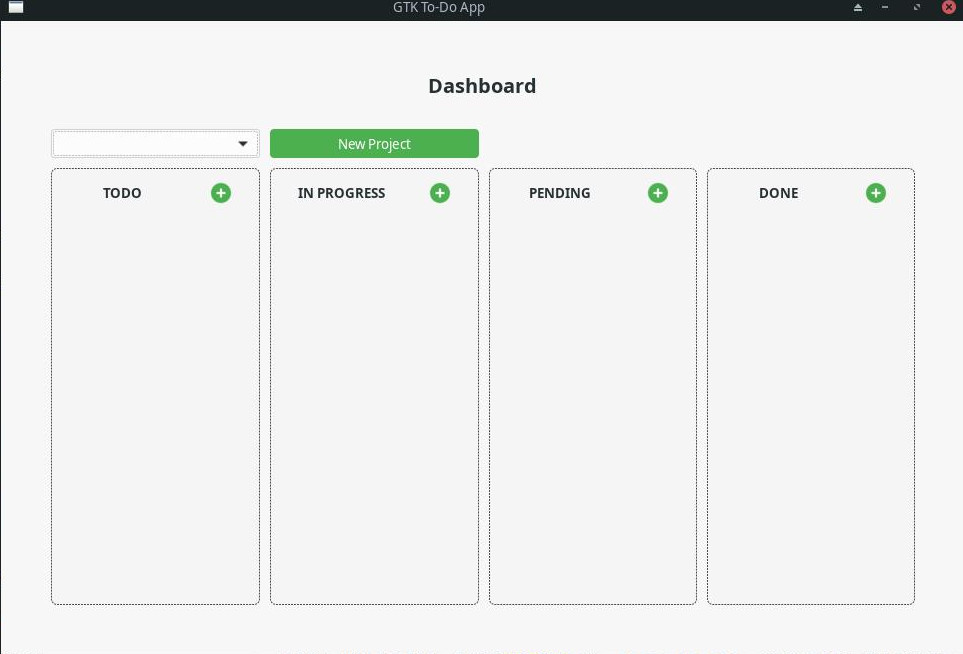
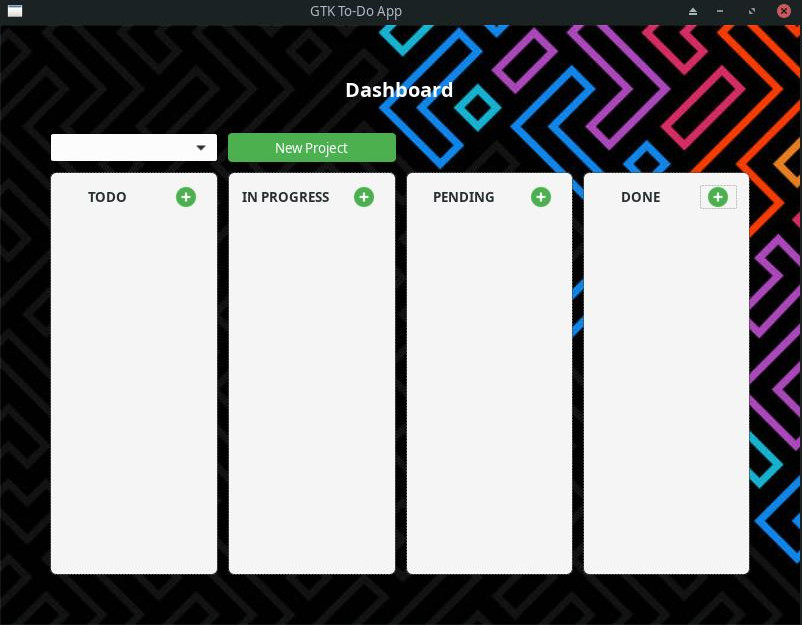
add screenshot

diff --git a/style.css b/style.css
@@ -1,8 +1,8 @@
 /* styles.css */
 #login-grid {
-  background: white;
+  background: whiteSmoke;
   padding: 50px;
-  border-radius: 6px;
+  border-radius: 8px;
 }
 #entry {
     padding: 6px;
@@ -37,6 +37,7 @@
 #page-grid {
   background-color: white;
   padding: 50px;
+  border-radius: 8px;
 }
   
 #login-button, #submit-btn{
@@ -57,9 +58,9 @@
   /* background-color: red; */
 }
 
-/* #dashboard-label{
-  background-color: green;
-} */
+#dashboard-label{
+  color: white;
+}
 
 #todo-column, #progress-column, #pending-column, #done-column{
   background-color: whitesmoke;
@@ -104,6 +105,13 @@
 
 .ticket-button {
   margin: 2px;
+}
+
+#main_window {
+  /* background-color: lightblue; */
+  background-image: url("./src/images/bg.jpg"); /* Path to your background image */
+  background-size: cover; /* Adjust as needed */
+  background-repeat: no-repeat; /* Adjust as needed */
 }
 
 

diff --git a/src/main.c b/src/main.c
@@ -23,6 +23,7 @@ int main(int argc, char *argv[]) {
     gtk_window_set_title(GTK_WINDOW(window), "GTK To-Do App");
     gtk_window_set_default_size(GTK_WINDOW(window), 800, 600);
     gtk_container_set_border_width(GTK_CONTAINER(window),0);
+    gtk_widget_set_name(window, "main_window"); // Add ID to the main window
     g_signal_connect(window, "destroy", G_CALLBACK(gtk_main_quit), NULL);
 
     /* Create the Stack Object */

diff --git a/README.md b/README.md
@@ -14,6 +14,8 @@
 4. **Database Implementation**
    - Integration with SQLite for storing todo items.
 
+5. **Screenshots**
+
 ### Introduction
 
 Welcome to my Todo App! This project is a simple yet functional Todo application developed using the C programming language and the GTK3 library, with CSS for styling.
@@ -300,10 +302,10 @@ To apply CSS to the ticket form page, we can target specific widgets or classes 
 
 By example this CSS snippet applies styles to the page label and various entry fields on the ticket form page, ensuring a consistent and visually appealing layout.
 
+### ScreenShots
 
-![alt text](https://i.imgur.com/3drVIr7.jpeg)
+![alt text](https://i.imgur.com/1CAUj21.jpeg)
 
+![alt text](https://i.imgur.com/53uayvq.jpeg)
 
-![alt text](https://i.imgur.com/DtwrIra.jpeg)
-
-
+![alt text](https://i.imgur.com/cKai0aE.jpeg)
